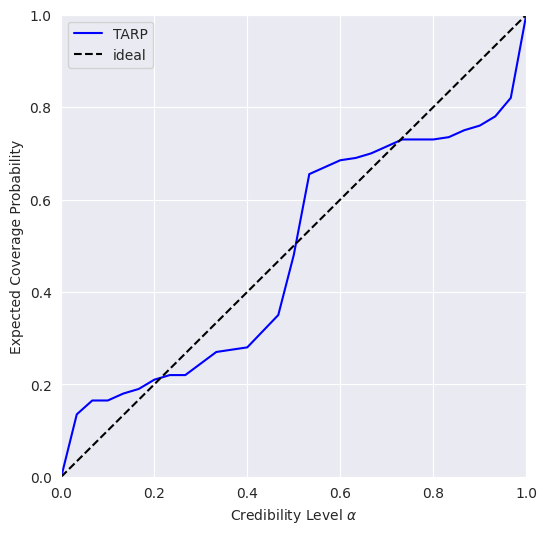
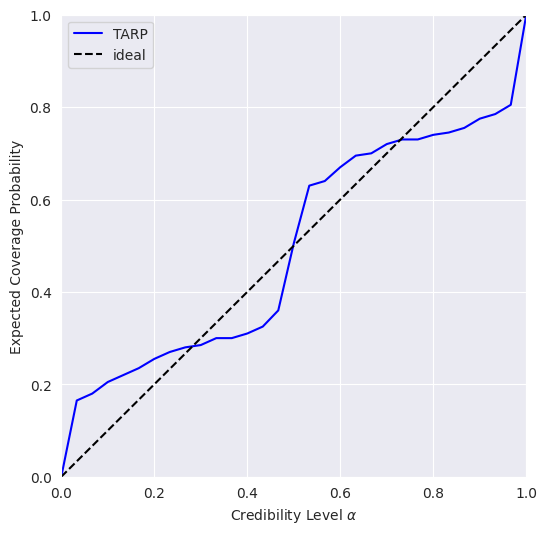
up

diff --git a/examples/sbi-benchmarks/gravitational_waves/train-gw-vae_v6c.py b/examples/sbi-benchmarks/gravitational_waves/train-gw-vae_v6c.py
@@ -259,8 +259,8 @@ def main():
     # plt.show()
 
     # split in thetas and xs
-    thetas_ = np.array(df_test["thetas"])[:500]
-    xs_ = np.array(df_test["xs"])[:500]
+    thetas_ = np.array(df_test["thetas"])[:200]
+    xs_ = np.array(df_test["xs"])[:200]
 
     thetas_ = normalize(jnp.array(thetas_, dtype=jnp.bfloat16), thetas_mean, thetas_std)
     xs_ = normalize(jnp.array(xs_, dtype=jnp.bfloat16), xs_mean, xs_std)
@@ -268,7 +268,7 @@ def main():
     posterior_samples_ = pipeline_latent.sample_batched(
         jax.random.PRNGKey(42),
         xs_,
-        10_000,
+        5_000,
         chunk_size=20,
         encoder_key=jax.random.PRNGKey(1234),
     )
